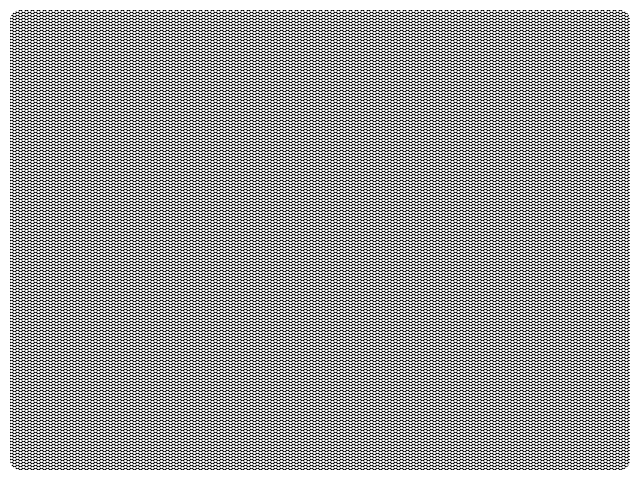
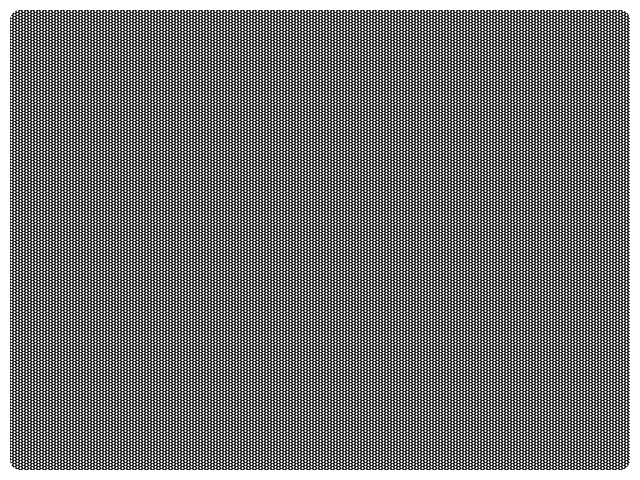
Minor tweaks to CRT mask & shader

diff --git a/src/rdr2000/rds-81.c b/src/rdr2000/rds-81.c
@@ -62,10 +62,9 @@ static const char *frag_shader =
     "   vec4 glow = vec4(0.12, 0.15, 0.2, 1.0);\n"
     "   vec2 uv = vec2(-(1.f - scale)) + (tex_coord / scale);"
     "   vec4 col = glow + texture2D(tex, uv);\n"
-    "   vec4 p = texture2D(mask, tex_coord);\n"
-    "   float p_dot = (p.r + p.g + p.b) / 3.f;\n"
+    "   float mask_brt = texture2D(mask, tex_coord).r;\n"
     "   gl_FragColor = col;\n"
-    "   gl_FragColor.a *= p_dot;\n"
+    "   gl_FragColor.a *= mask_brt;\n"
     "}\n";
 
 static void rds_get_xp_pvm(rds81_t *wxr, mat4 pvm) {
